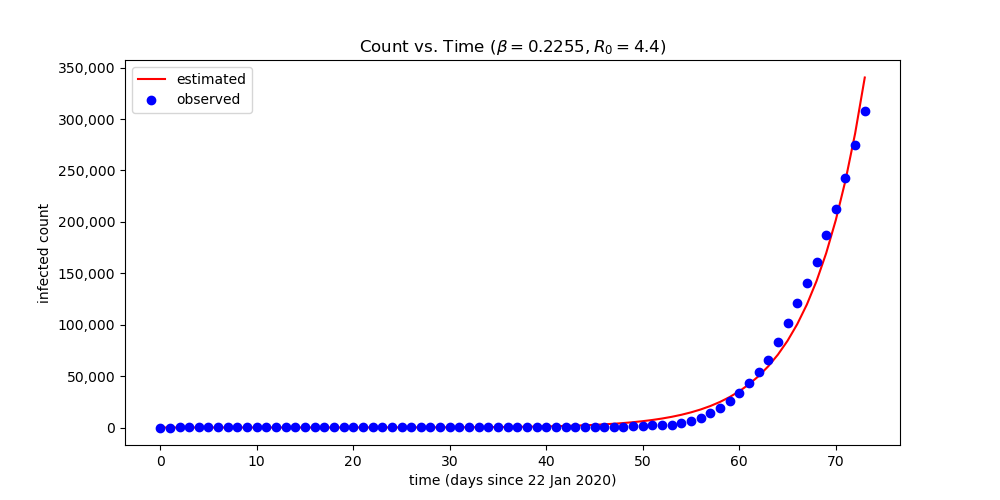
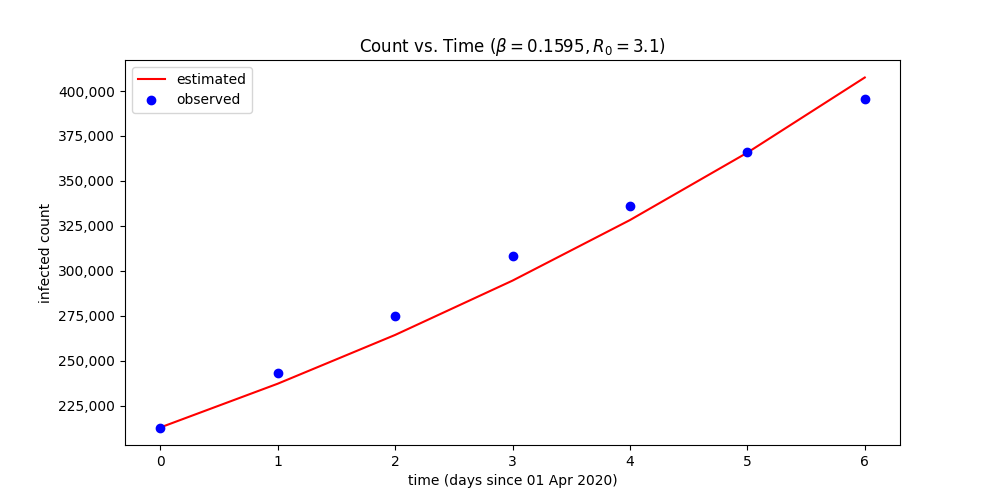
Use 2020-04-01 as the starting date of the new analysis

diff --git a/model.py b/model.py
@@ -12,19 +12,22 @@ from scipy.optimize import minimize
 
 def main():
     # Data variables
-    url = 'https://raw.githubusercontent.com/CSSEGISandData/COVID-19/master/csse_covid_19_data/' \
+    infected_url = 'https://raw.githubusercontent.com/CSSEGISandData/COVID-19/master/csse_covid_19_data/' \
           + 'csse_covid_19_time_series/time_series_covid19_confirmed_US.csv'
-    infected_data = wrangle_data(url)
-    infected_data = infected_data.groupby('date')['infected_count'].sum()
+    infected_data = wrangle_data(infected_url)
+    infected_data = infected_data.groupby('date')['count'].sum()
     infected_data = infected_data.sort_index()
+    infected_data = infected_data[70:]
+    start_date = infected_data.index[0]
     infected_data = np.array(infected_data)
 
     # Population data
     total_us_population = 328_239_523
+    initial_recovered = 8_474
     initial = {
-        'recovered': 0,
+        'recovered': initial_recovered,
         'infected': infected_data[0],
-        'susceptible': total_us_population - infected_data[0]
+        'susceptible': total_us_population - infected_data[0] - initial_recovered
     }
 
     # Input parameters
@@ -33,13 +36,13 @@ def main():
     # Solver
     estimated_infection_rate = solver(
         func=objective, population=total_us_population, initial=initial, observed_infected=infected_data,
-        recovery_rate=recovery_rate
+        recovery_rate=recovery_rate, start_date=start_date
     )
 
     # Projection
     project(
         population=total_us_population, initial=initial, days=500, infection_rate=estimated_infection_rate,
-        recovery_rate=recovery_rate, observed_infected=infected_data
+        recovery_rate=recovery_rate, start_date=start_date
     )
 
 
@@ -69,7 +72,7 @@ def objective(infection_rate, population, initial, observed_infected, recovery_r
     return sum((observed - estimated) ** 2)
 
 
-def solver(func, population, initial, observed_infected, recovery_rate):
+def solver(func, population, initial, observed_infected, recovery_rate, start_date):
     # Time points
     t = np.array(range(len(observed_infected)))
 
@@ -94,7 +97,7 @@ def solver(func, population, initial, observed_infected, recovery_rate):
     plt.plot(t, infected, 'r-', label='estimated')
     plt.plot(t, observed_infected, 'bo', label='observed')
     plt.legend(loc='best')
-    plt.xlabel('time (days since 22 Jan 2020)')
+    plt.xlabel('time (days since {})'.format(start_date.strftime('%d %b %Y')))
     plt.ylabel('infected count')
     plt.title(r'Count vs. Time $(\beta={}, R_0={})$'.format(round(estimated_infection_rate, 4), round(r0, 1)))
 
@@ -107,7 +110,7 @@ def solver(func, population, initial, observed_infected, recovery_rate):
     return estimated_infection_rate
 
 
-def project(population, initial, days, infection_rate, recovery_rate, observed_infected=None):
+def project(population, initial, days, infection_rate, recovery_rate, start_date):
     # Time points
     t = np.array(range(days))
 
@@ -139,7 +142,7 @@ def project(population, initial, days, infection_rate, recovery_rate, observed_i
     ax.annotate('{:,}'.format(int(round(infected[-1]))), (t[-1], 5), ha='center')
 
     plt.legend(loc='best')
-    plt.xlabel('time (days since 22 Jan 2020)')
+    plt.xlabel('time (days since {})'.format(start_date.strftime('%d %b %Y')))
     plt.ylabel('count')
     plt.title('Count vs. Time')
 
@@ -160,23 +163,23 @@ def wrangle_data(url):
 
     # Data wrangling
     # remove unneeded columns
-    infected_data = raw_data.drop(
+    data = raw_data.drop(
         ['UID', 'iso2', 'iso3', 'code3', 'FIPS', 'Admin2', 'Country_Region', 'Lat', 'Long_', 'Combined_Key'], axis=1
     )
     # rename state column
-    infected_data = infected_data.rename({'Province_State': 'state'}, axis=1)
+    data = data.rename({'Province_State': 'state'}, axis=1)
     # group by state
-    infected_data = infected_data.groupby(['state']).sum().reset_index()
+    data = data.groupby(['state']).sum().reset_index()
     # unpivot date columns
-    infected_data = infected_data.melt(id_vars=['state'], var_name='date', value_name='infected_count')
+    data = data.melt(id_vars=['state'], var_name='date', value_name='count')
     # transform date column from str to datetime
-    infected_data['date'] = pd.to_datetime(infected_data['date'], format='%m/%d/%y')
+    data['date'] = pd.to_datetime(data['date'], format='%m/%d/%y')
     # merge state codes and coordinates to infected data
-    infected_data = pd.merge(infected_data, us_state_lookups, on=['state'], how='right')
+    data = pd.merge(data, us_state_lookups, on=['state'], how='right')
     # rearrange columns
-    infected_data = infected_data[['state', 'state_code', 'latitude', 'longitude', 'date', 'infected_count']]
+    data = data[['state', 'state_code', 'latitude', 'longitude', 'date', 'count']]
 
-    return infected_data
+    return data
 
 
 if __name__ == '__main__':
